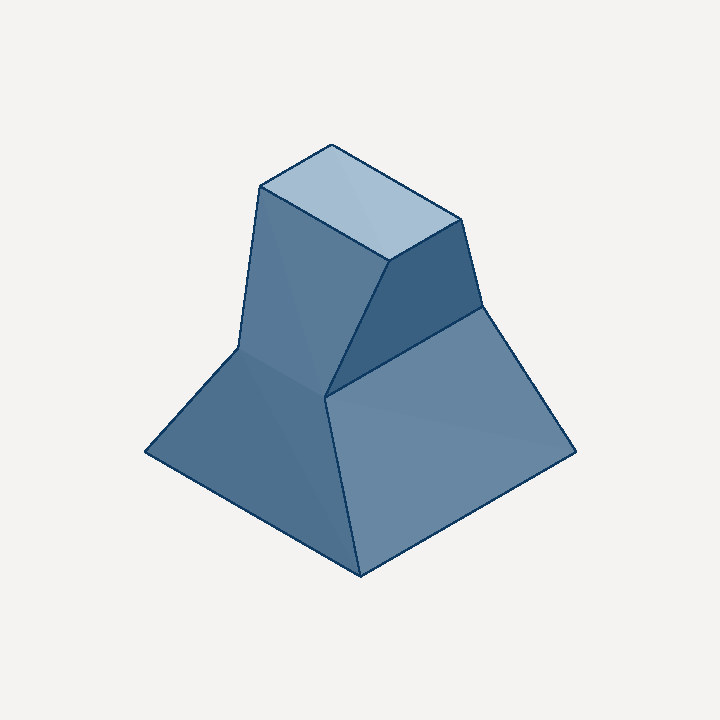
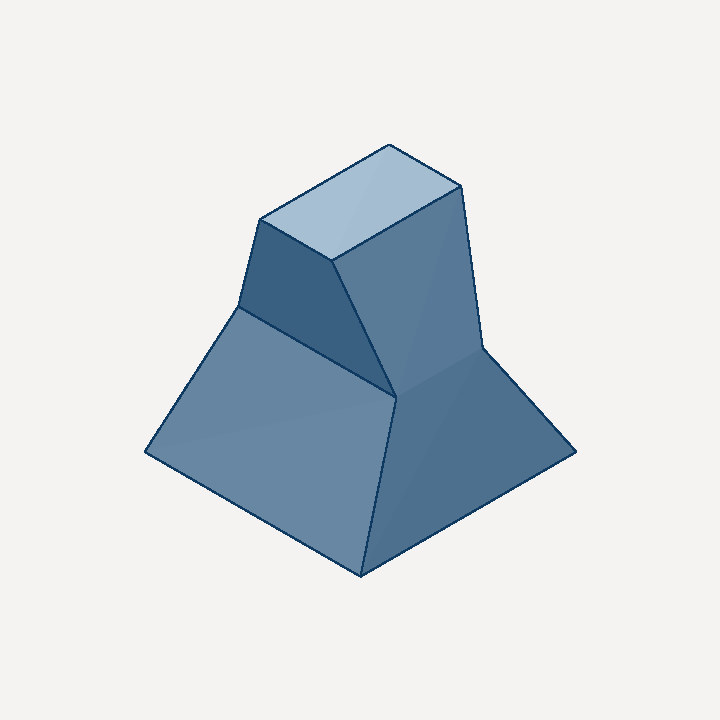
fix(render): un-mirror the default isometric view
`View::Isometric` used `right = [COS30, -COS30, 0]`, which makes
`right x down` point OUT of the screen — a left-handed screen basis, so
every isometric render was a mirror image. Reconstructing the camera
from that basis puts the eye at (-1,-1,-1), contradicting `cam()`'s own
doc comment. Every other view is right-handed, and so is the app
viewport (a real Three.js camera at (50,50,50)), so the static renderer
and the app have disagreed all along.

It survived because flat-shaded orthographic line art has no shadows,
reflections, or text — a mirror is visually indistinguishable. It only
became visible when a path tracer was pointed at the same basis.

- `right` is now `[-COS30, COS30, 0]`, the true screen-right for a
  camera at (1,1,1) with +Z up, keeping the legacy sqrt(1.5) scale.
  `down` is untouched and stays orthogonal, so the change is a pure
  horizontal mirror.
- `view_basis_handedness_is_pinned` asserts `right x down . cam == -1`
  for every variant (Orbit at three angle sets incl. elevation +/-90),
  and that the two are parallel at all, so a non-orthogonal basis trips
  it too. It failed on the old basis.
- Regenerated the 10 kernel-features docs assets from the loon sources
  in the MDX. The mecheval leaderboard cache (1563 timestamped SVGs of
  past runs) is deliberately left alone — those are historical records.
- "Left: fillet; right: chamfer" would have become false, so the
  chamfer's offset in that snippet moved to -60.
[…]

Changed region(s): [[0.1833, 0.1833, 0.7944, 0.7944]]

diff --git a/crates/vcad-render/src/lib.rs b/crates/vcad-render/src/lib.rs
@@ -248,9 +248,12 @@ impl View {
     /// World direction mapping to screen +x.
     fn right(self) -> [f64; 3] {
         match self {
-            // Non-unit on purpose: preserves the exact legacy isometric
-            // projection (uniform √1.5 scale vs the axis views).
-            View::Isometric => [COS30, -COS30, 0.0],
+            // Screen-right for a camera at (1, 1, 1) looking at the origin
+            // with +Z up: (−1, 1, 0)/√2. Non-unit on purpose — the √1.5
+            // scale (vs the axis views) is the legacy isometric projection
+            // scale. Was [COS30, −COS30, 0] until 2026-07, which mirrored
+            // every isometric render; see `view_basis_handedness_is_pinned`.
+            View::Isometric => [-COS30, COS30, 0.0],
             View::Front => [1.0, 0.0, 0.0],
             View::Side => [0.0, -1.0, 0.0],
             View::Top => [1.0, 0.0, 0.0],
@@ -3928,6 +3931,64 @@ mod raytrace {
 #[cfg(test)]
 mod tests {
     use super::*;
+
+    /// Pins the handedness of every [`View`]'s screen basis.
+    ///
+    /// For a camera looking at the scene, `right × down` must point *into*
+    /// the screen, i.e. along `−cam` (`cam` points scene → camera). A basis
+    /// where it points along `+cam` renders a mirror image — invisible on
+    /// flat-shaded line art, obvious once shadows or reflections exist.
+    ///
+    /// `View::Isometric` was mirrored until 2026-07 (`right = [COS30,
+    /// −COS30, 0]`), which mirrored every default render — docs assets,
+    /// mecheval leaderboard, MCP `render_view`. Every view is non-mirrored
+    /// now; a `+1` here means someone flipped a basis by accident.
+    #[test]
+    fn view_basis_handedness_is_pinned() {
+        // right × down points INTO the screen for every view.
+        let cases: &[(View, f64)] = &[
+            (View::Isometric, -1.0),
+            (View::Front, -1.0),
+            (View::Side, -1.0),
+            (View::Top, -1.0),
+            (
+                View::Orbit {
+                    azimuth: 45.0,
+                    elevation: 35.0,
+                },
+                -1.0,
+            ),
+            (
+                View::Orbit {
+                    azimuth: -117.0,
+                    elevation: -12.0,
+                },
+                -1.0,
+            ),
+            (
+                View::Orbit {
+                    azimuth: 0.0,
+                    elevation: 90.0,
+                },
+                -1.0,
+            ),
+        ];
+
+        for &(view, want_sign) in cases {
+            let n = normalize(cross(view.right(), view.down()));
+            let cam = normalize(view.cam());
+            // n must be parallel (or antiparallel) to cam: |dot| ≈ 1.
+            let dot = n[0] * cam[0] + n[1] * cam[1] + n[2] * cam[2];
+            assert!(
+                (dot.abs() - 1.0).abs() < 1e-9,
+                "{view:?}: right × down is not parallel to cam (dot = {dot})",
+            );
+            assert!(
+                (dot - want_sign).abs() < 1e-9,
+                "{view:?}: handedness flipped — right × down · cam = {dot}, expected {want_sign}",
+            );
+        }
+    }
 
     #[test]
     fn render_style_parses_known_names_and_rejects_unknown() {
